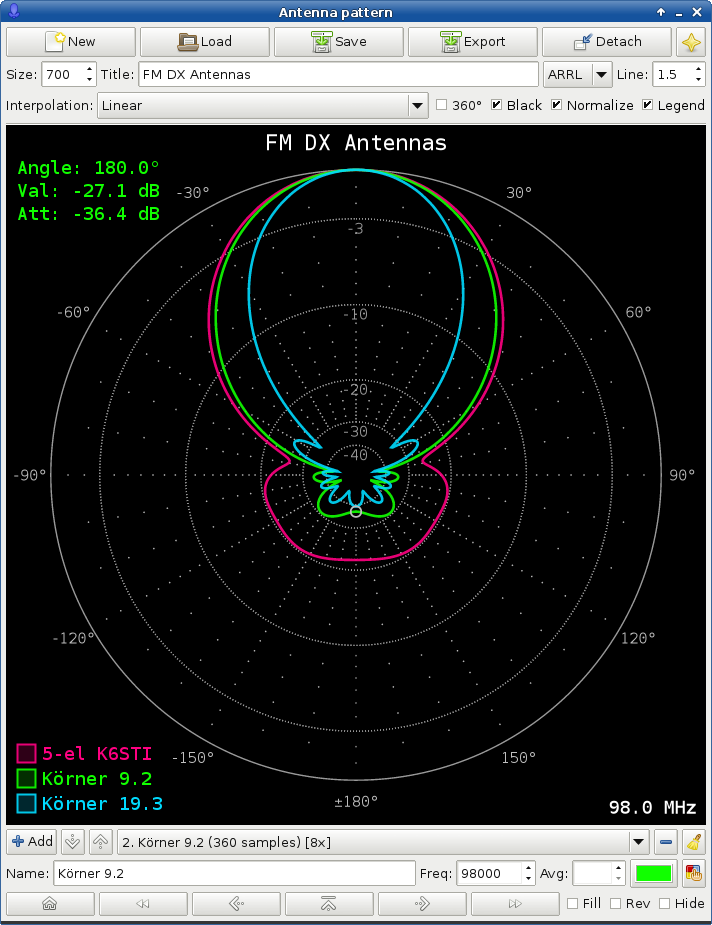
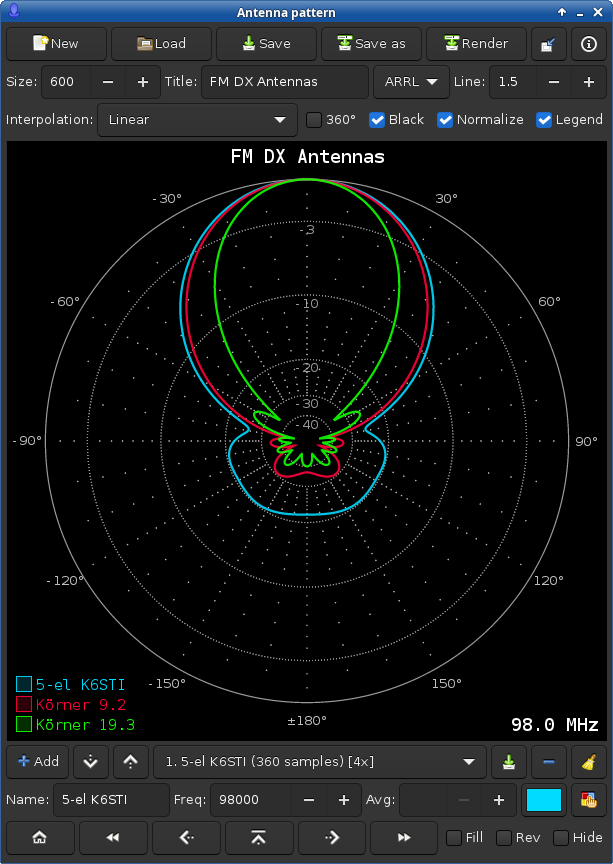
Update README and screenshot

diff --git a/README.md b/README.md
@@ -5,7 +5,7 @@ Antenna pattern plotting and analysis software.
 
 ![Screenshot](/antpatt.png?raw=true)
 
-Copyright (C) 2017-2021  Konrad Kosmatka
+Copyright (C) 2017-2022  Konrad Kosmatka
 
 https://fmdx.pl/antpatt/
 
@@ -18,12 +18,10 @@ In order to build antpatt you will need:
 - C compiler
 
 You will also need several dependencies:
-- GTK+ 2 & dependencies
+- GTK+ 3 & dependencies
 - GSL
 - JSON-C
 - zlib
-
-GTK+ 3 is also partially supported (requires CMakeLists modification).
 
 Once you have all the necessary dependencies, you can use scripts available in the `build` directory.
 
